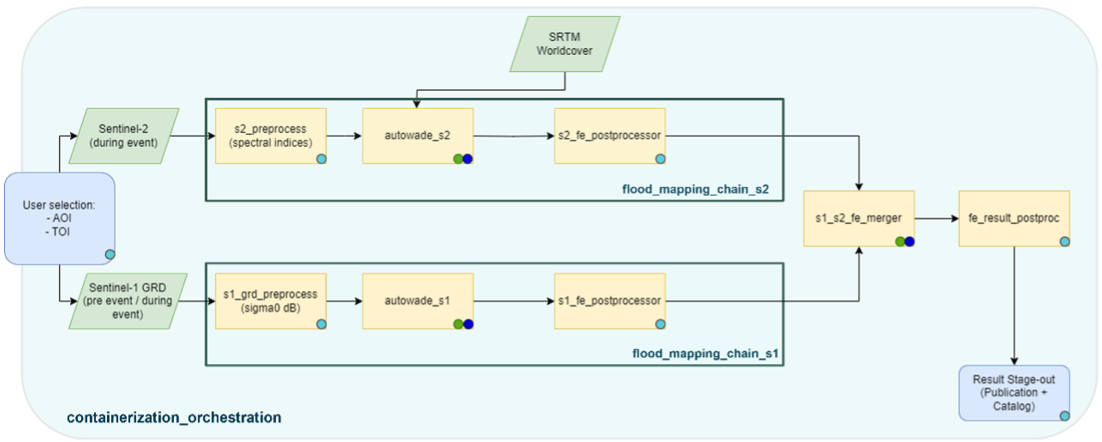
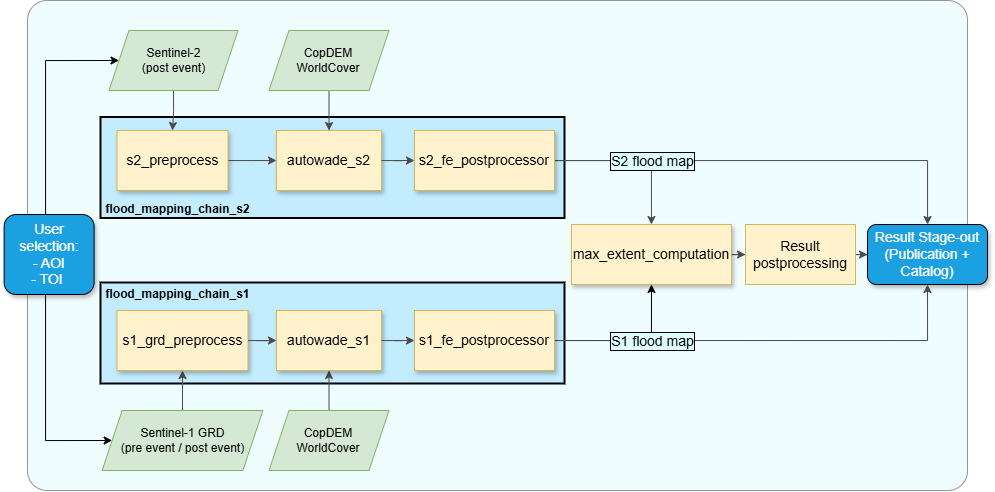
change the specs of the flod extent mapping based on the docs received from CIMA

diff --git a/detailed_description/flood_event.rst b/detailed_description/flood_event.rst
@@ -1,8 +1,8 @@
 Flood Extent Mapping Details
 =========================================
 
-The Flood Extent Mapping (FEM) service focuses on single-event flood detection from SAR and Optical satellite data. 
-Products are flood delineation maps for specific flood events with maximum extent derived from the combination of Sentinel-1 and Sentinel-2 imagery.
+The Flood Extent Mapping (FEM) service focuses on single-event flood detection from Synthetic Aperture Radar (SAR) and optical satellite data. 
+Products are flood delineation maps for specific flood events with maximum extent derived from the combination of Sentinel-1 (S1) and Sentinel-2 (S2) imagery.
 
 In terms of geophysical products, the FEM service generates on demand a flood extent map of a single flooding event
 
@@ -19,16 +19,15 @@ In terms of geophysical products, the FEM service generates on demand a flood ex
 
    <div style="margin-top: 40px;"></div>
 
-This service exploits two processing chains.
-The first one uses Optical data and focuses on the flooded areas detection starting from a single S2 image.
-The algorithm uses a S2 image acquired after the event covering the area of interest.
-The algorithm also uses as input an extract of the ESA Land Use / Land Cover map and a Water Bodies Mask that are used to improve the quality of the flood extent detection.
-The second chain uses SAR data and focuses on flooded area detection starting from a couple of Sentinel 1 images.
-The algorithm uses a S1 Image after the flood event and a S1 Image before the event.
-The two images must share the same relative orbit and cover the same area. 
-The algorithm also uses as input an extract of the ESA Land Use / Land Cover map that is used to improve the quality of the flood extent detection.
-The service then merges the two maps into a unique one representing the maximum flood extension detected both from optical and Radar data sources.
-The output is a boolean map representing flooded (1) and not flooded (0) pixels.
+This service is based on two processing chains that exploit the AUTOWADE (AUTOmatic Water Areas Detector) algorithm, developed by CIMA.
+The first chain uses optical data to detect flooded areas based on a single Sentinel-2 (S2) image acquired after the flood event (autowade_s2) [1]_.
+The second chain uses Synthetic Aperture Radar (SAR) data, analysing a pair of Sentinel-1 (S1) images: one acquired before and one after the flood event (autowade_s1) [2]_. 
+These images must share the same relative orbit and cover the same geographic area.
+Both chains also use the Copernicus DEM [3]_ and ESA global land cover [4]_ products as ancillary data to improve the accuracy of flood extent detection. 
+Each flood detection algorithm produces a classified map with four states: masked (0), not flooded (1), permanent water (2), and flooded (3) pixels.
+If multiple maps are produced within the defined temporal window, these are then combined, as first by sensors, to generate a maximum extent map (S1 max extent and S2 max extent maps) representing the union of all flooded areas detected across the available scenes.
+When flood maps are successfully generated from both S1 and S2 data (i.e., optical data is available and not affected by cloud coverage), the service merges the two outputs into a single map representing the maximum flood extent detected by either source. 
+In this case, a comparative map is also generated to highlight areas of agreement and difference between SAR- and optical-derived flood maps. This map uses the following legend: no data (0); no flood (1); one map flood, the other one not flood (2); one map flood, the other one no data (3), both maps flood (4); permanent water (5).
 
 .. figure:: ../_static/flood_event/2_example_colombia.png
     :alt: Flood Extent Mapping example in Colombia
@@ -36,7 +35,7 @@ The output is a boolean map representing flooded (1) and not flooded (0) pixels.
     :figwidth: 80%
     :name: fig:flood_event_colombia
 
-    Example of S2-derived flood extent maps for two dates in la Mojana, Colombia (12/04 and 01/06, 2024). 
+    Example of output products of the FEM service over Mojana (Colombia): on the left Flood Extent Map derived from Sentinel-1 data, on the right Comparative (SAR and optical) map. 
 
 .. raw:: html
 
@@ -62,38 +61,47 @@ The schema shown in this section describes the high-level workflow of the FEM se
 
 Below are given details of each step of the chain described in the FEM workflow.
 
-User selection
-^^^^^^^^^^^^^^^^^^^^^^^^^^^^^^^^^^
+**User selection**
 
 Platform component where users configure parameters for service execution 
 
-s1_grd_preprocess and s2_preprocess
-^^^^^^^^^^^^^^^^^^^^^^^^^^^^^^^^^^^^^^
+**s1_grd_preprocess**
 
-Standard preprocessing modules to obtain Sentinel-1 calibrated, corrected and projected sigma nought intensity images in dBs, and Sentinel-2 L2A (BOA) cloud-screened radiances. 
+Standard preprocessing workflow to obtain Sentinel-1 calibrated, corrected and projected sigma nought intensity images in dBs using as input Sentinel-1 GRD products. The preprocessing module includes the pairing of pre and post images per orbit to be ingested by the autowade_s1 algorithm. 
 
-autowade_s1 and autowade_s2
-^^^^^^^^^^^^^^^^^^^^^^^^^^^^^^^^^^
+**s2_preprocess**
 
-CIMA’s algorithms for change detection (Sentinel-1) and flood detection (Sentinel-2), which execute over all Sentinel tiles fitting into the AOI. 
+Sentinel-2 MSI L2A data preparation and spectral index computation. Preprocessing includes cloud and shadow masking by means of the S2 Scene CLassification (SCL) map, followed by the Modified Normalize Difference Water Index (MNDWI) generation [5]_. MNDWI, delivered at 20 m resolution, is extracted and given as input for following steps of the workflow.
 
-s1_fe_postprocessor and s2_fe_postprocessor
-^^^^^^^^^^^^^^^^^^^^^^^^^^^^^^^^^^^^^^^^^^^^^^^^^^^^
+**autowade_s1** 
+
+Execution of autowade_s1 involves detecting flooded and permanent water areas from Sentinel-1 data using a change detection approach between pre- and post-event images acquired over the same orbit [2]_.
+First, the method excludes steep and urban areas, by means of ancillary data [3]_ [4]_. Permanent water bodies are identified using a Buffer-from-Edge approach. In this process, an unsupervised clustering algorithm is applied to the co-polarized VV image to segment groups of similar pixels. The class with the lowest median is assumed to represent water pixels.
+The derived Continuous Dynamic Water Area (CDWA) is then compared with the reference permanent water layer from WorldCover. The intersection between both datasets undergoes edge detection, followed by a buffering operation to obtain a bimodal distribution of water and non-water pixels. Once this distribution is achieved, an automatic thresholding method is applied.
+To refine the classification of permanent water, a region-growing approach is employed to ensure all neighbouring water pixels are included. The same strategy is used to classify floodwater, but in this case, the method is applied to the difference between post and pre-event acquisitions.
+
+
+**autowade_s2**
+
+Execution of autowade_s2 involves detecting flooded and permanent water areas from Sentinel-2 single post event image. 
+Certain areas of the pre-processed MNDWI data are excluded from the analysis, i.e. urban areas (from ESA WorldCover). Water detection follows the “Buffer-from-Cluster Approach,” as described by Pulvirenti et al. (2020) [1]_. An unsupervised clustering algorithm is applied to the spectral index to group similar pixels within the scene, assuming that the class with the highest median represents water pixels.
+The resulting Clustering-Derived Water Area (CDWA) undergoes edge detection, followed by a buffer operation to generate a bimodal distribution of water and non-water pixels. Once this distribution is established, an automatic thresholding method is applied.
+To refine the water classification, a region-growing approach is used to ensure all neighboring water pixels are included. Finally, by intersecting the water delineation map with the reference water layer (derived from ESA WorldCover), permanent water is identified (pixels classified as water in both WorldCover and the S2-derived map), while flooded water is distinguished (pixels classified as water only in the Sentinel-2-derived map).
+
+
+**s1_fe_postprocessor** and **s2_fe_postprocessor**
 
 Modules for image processing to solve noise, border effects and more issues potentially affecting the final result.
 
-s1_s2_fe_merger
-^^^^^^^^^^^^^^^^^^^^^^^^^^^^^^^^^^
+**max_extent_computation**
 
-Algorithm to merge the flood extents obtained separately from Sentinel-1 and Sentinel-2 as long as a set of conditions are met (e.g. a maximum length of time gap of respective captures). 
+Algorithm to merge the flood extents obtained separately from Sentinel-1 and Sentinel-2, produce maximum flood extent maps and the comparative one.
 
-fe_result_postproc
-^^^^^^^^^^^^^^^^^^^^^^^^^^^^^^^^^^
+**fe_result_postproc**
 
-Module for image processing of the final flood extent result. 
+Module for image processing of the final flood extent results. 
 
-Stage-out
-^^^^^^^^^^^^^^^^^^^^^^^^^^^^^^^^^^
+**Stage-out**
 
 End points of the service to store and visualize the results.
 
@@ -104,7 +112,7 @@ End points of the service to store and visualize the results.
     :figwidth: 80%
     :name: fig:example_flood_event_jamaica
 
-    Example of S1-derived flood extent map in Jamaica, 18th May 2017
+    Example of S1-derived flood extent map for the Mojana region (Colombia) as of 31st May 2024
 
 .. raw:: html
 
@@ -119,19 +127,19 @@ The following inputs are needed to run the service:
 **Sentinel imagery**
 
 * Sentinel-2 L2A: one tile or more tiles overlapping the Area of Interest (AOI), captured during or shortly after the flooding event.
-* Sentinel-1 GRD: two sets of tiles (or group of tiles) overlapping the AOI, captured before and after the event.
+* Sentinel-1 GRD: two sets of tiles (or group of tiles) overlapping the AOI, captured before and after the event in the same relative orbit.
 
 **Ancillary data: to be used in the AUTOWADEs algorithms**
 
-* Copernicus DEM GLO-30: Digital Elevation Model from Copernicus [1]_
-* Worldcover: land use/ land cover from ESA [2]_
+* Copernicus DEM GLO-30: Digital Elevation Model from Copernicus [3]_
+* Worldcover: land cover from ESA [4]_
 
 Parameters
 -----------------------------------------
 
 The following parameters are needed to run the service:
 
-* Area of Interest (AOI): the geographical region to be analyzed 
+* Area of Interest (AOI): The geographical region to be analyzed. 
 * Time of Interest (TOI): The time range around the event to be analyzed, to select the images over the AOI.
 
 Output
@@ -141,19 +149,31 @@ The service will produce the following outputs:
 
 Flood extent map of a single flooding event.
 
-* *Definition*: flood extent in binary values:  1 - flooded; 0 - non flooded
-* *Data type*: Geospatial layers 
-* *Format*: raster file
+* *Definition*: flood extent map: 0 - masked pixels; 1 - no flood; 2 - permanent water; 3 - flooded.
+* *Data type and format*: UInt8, GeoTIFF.  
 * *Spatial resolution*: 20m.
-* *Frequency*: obtained on demand
+* *Frequency*: obtained on demand.
 * *Spatial coverage*: The service is available for the whole LAC region.
-* *Temporal coverage*: depending on the combine revisit time of Sentinel-1 and Sentinel-2 satellites 
-* *Constraints*: availability of EO acquisitions.
+* *Temporal coverage*: depending on the combine revisit time of Sentinel-1 and Sentinel-2 satellites. 
+* *Constraints*: limited by the availability of suitable Earth Observation acquisitions; urban areas and steep terrain are excluded from the analysis.
+
+Comparative optical and SAR flood map
+
+* *Definition*: comparative map that highlights areas of agreement and difference between SAR- and optical-derived flood maps. Legend: 0 - No Data; 1 - No flood; 2 - One map flood, the other one not flood; 3 - One map flood, the other one no data; 4 - Both maps flood; 5 - Permanent water.
+* *Data type and format*: UInt8, GeoTIFF.
+* *Spatial resolution*: 20m.
+* *Frequency*: obtained on demand.
+* *Spatial coverage*: The service is available for the whole LAC region.
+* *Temporal coverage*: depending on the combine revisit time of Sentinel-1 and Sentinel-2 satellites.
+* *Constraints*: limited by the availability of suitable Earth Observation acquisitions.
 
 
 
 References
 -----------------------------------------
 
-.. [1] Copernicus DEM - Global Digital Elevation Model - COP-DEM_GLO-30 https://doi.org/10.5270/ESA-c5d3d65
-.. [2] WorldCover 2021 v200 - Zanaga, D., Van De Kerchove, R., Daems, D., De Keersmaecker, W., Brockmann, C., Kirches, G., Wevers, J., Cartus, O., Santoro, M., Fritz, S., Lesiv, M., Herold, M., Tsendbazar, N.E., Xu, P., Ramoino, F., Arino, O., 2022. ESA WorldCover 10 m 2021 v200. https://doi.org/10.5281/zenodo.7254221
+.. [1] Pulvirenti, L., Squicciarino, G., Fiori, E. (2020). A Method to Automatically Detect Changes in Multitemporal Spectral Indices: Application to Natural Disaster Damage Assessment. Remote Sensing, 12(17), 2681. https://doi.org/10.3390/rs12172681
+.. [2] Pulvirenti, L., Squicciarino, G., Fiori, E., Ferraris, L., & Puca, S. (2021). A Tool for Pre-Operational Daily Mapping of Floods and Permanent Water Using Sentinel-1 Data. Remote Sensing, 13(7), 1342. https://doi.org/10.3390/rs13071342
+.. [3] Copernicus DEM - Global Digital Elevation Model - COP-DEM_GLO-30 https://doi.org/10.5270/ESA-c5d3d65
+.. [4] WorldCover 2021 v200 - Zanaga, D., Van De Kerchove, R., Daems, D., De Keersmaecker, W., Brockmann, C., Kirches, G., Wevers, J., Cartus, O., Santoro, M., Fritz, S., Lesiv, M., Herold, M., Tsendbazar, N.E., Xu, P., Ramoino, F., Arino, O., 2022. ESA WorldCover 10 m 2021 v200. https://doi.org/10.5281/zenodo.7254221
+.. [5] Xu, H. (2006). Modification of normalised difference water index (NDWI) to enhance open water features in remotely sensed imagery. International Journal of Remote Sensing, 27(14), 3025–3033. https://doi.org/10.1080/01431160600589179

diff --git a/high_level_description/flood_event.rst b/high_level_description/flood_event.rst
@@ -22,8 +22,7 @@ Extent Detection processors developed by CIMA Foundation.
 The user specifies an area of interest and sets the start date of the flood event. A default
 observation/acquisition period is applied automatically, but it can be adjusted as needed.
 The service automatically searches pre- and post-event Sentinel-1 images with the same
-geometry and post-event Sentinel-2 images covering the AOI. The service extracts the Land
-Use / Land Cover (LU/LC) cover map and Water Bodies map in the same area and triggers
+geometry and post-event Sentinel-2 images covering the AOI. The service extracts the Land Cover map and Water Bodies map in the same area and triggers
 the execution of the SAR Flood Extent Detection and Optical Flood Extent Detection for
 each satellite image found.
 As a result flood extent maps are generated for each observation and a maximum extent
@@ -63,8 +62,8 @@ the flood depth mapping service.
 * ESA WorldCover - https://esa-worldcover.org
 * Copernicus DEM: - https://dataspace.copernicus.eu/explore-data/data-collections/copernicus-contributing-missions/collections-description/COP-DEM
 
-**Output:**
+**Output Products:**
 
 * SAR-Based Flood Extent Map
 * Optical-Based Flood Extent Map
-* Combined (max extent) Flood Extent Map
+* Combined (max extent and comparative) Flood Extent Maps
